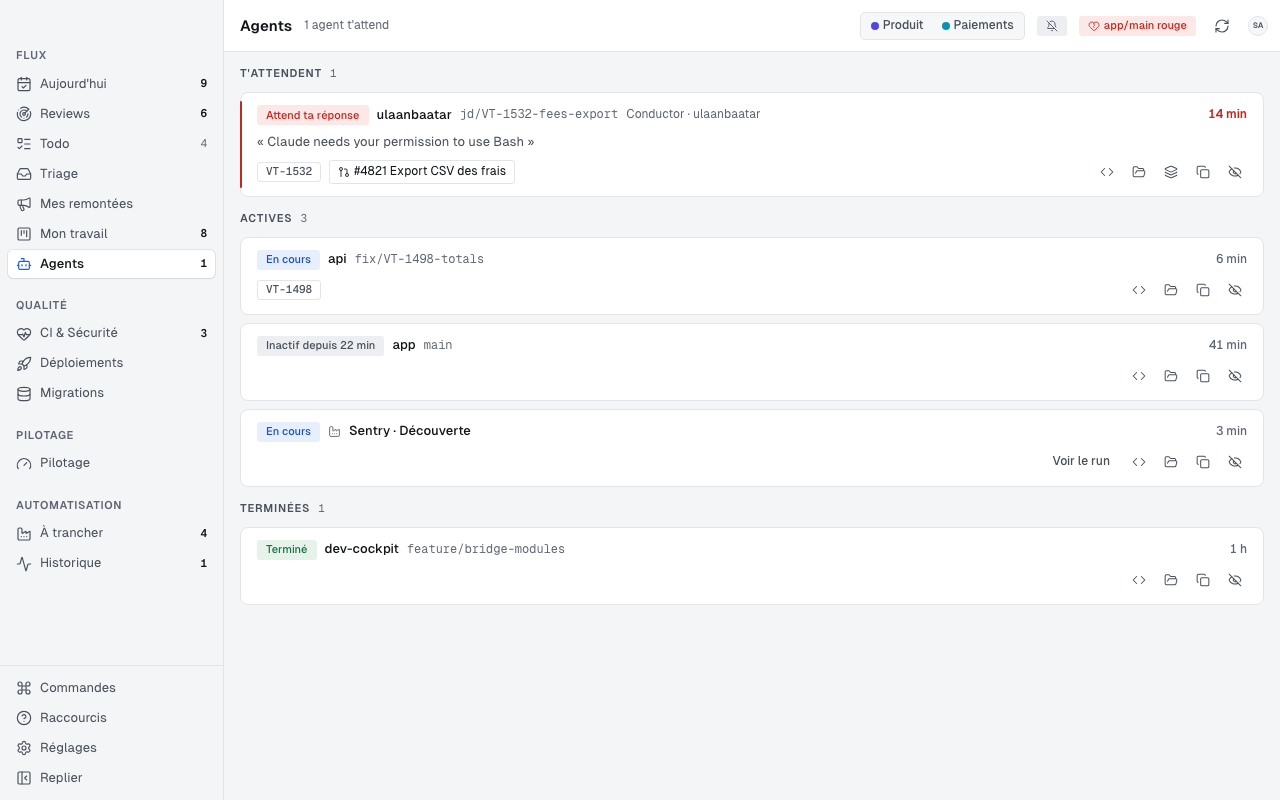
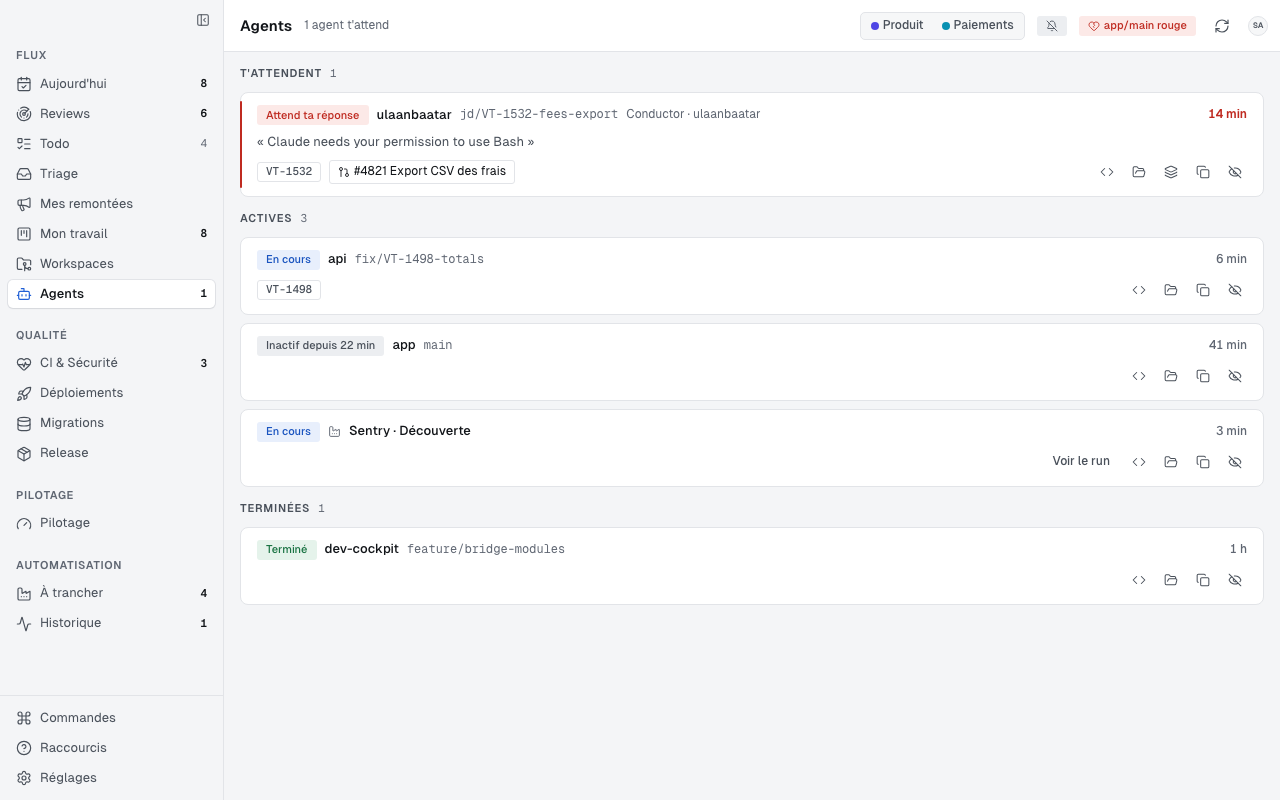
Show the whole cockpit: hidden views, Workspaces, Release and the sources (#2)
The README stopped at the sidebar views as they stood a fortnight ago.
Workspaces and Release had arrived since; Ménage, Notes and Absence had
never been shown; and nothing said what feeds the app.

Every shot is now taken by a spec that lives with the code, from the
demo fixtures under showcase=1. Four claims are corrected against the
module registry: Release writes nothing, the accounts tab holds GitHub
and YouTrack alone, the risk badges belong to Reviews, and the module
tour is a button rather than an automatic sequel.

The install line named the repository by its former owner. It worked by
redirect, but the source README has said parallel-services for a while.

Changed region(s): [[0.0, 0.3125, 0.0938, 0.7812], [0.0, 0.8438, 0.0938, 0.9062], [0.0312, 0.9688, 0.0625, 1.0]]

diff --git a/README.md b/README.md
@@ -11,32 +11,38 @@ au dépôt de code.
 
 Chacun s'allume ou s'éteint dans **Réglages › Modules** : ce qui est éteint quitte la barre, les
 raccourcis et les notifications. La barre de gauche les range en quatre groupes — Flux, Qualité,
-Pilotage, Automatisation. Les captures viennent du jeu de démonstration, pas d'un vrai compte.
+Pilotage, Automatisation — et trois vues vivent hors de la barre, ouvertes par la palette. Les
+captures viennent du jeu de démonstration, pas d'un vrai compte.
 
 ## Flux
 
 ### Aujourd'hui
-Ce qui t'attend dans les autres vues actives, en un coup d'œil.
+Ce qui t'attend dans les autres vues actives, en un coup d'œil : agents, sorties à trancher,
+ménage, mentions, reviews, PR et cartes en cours. Chaque bloc se masque ou se déplace, et un bloc
+masqué ne compte nulle part.
 
 ![Aujourd'hui](docs/screenshots/aujourdhui.png)
 
 ### Reviews
 Tout ce qui attend ta review, avec le compteur de la barre de menus. j et k circulent, Entrée ouvre.
+Les badges de risque y signalent une grosse PR, une migration, des fichiers sensibles. Ce qui bouge
+sans qu'on te l'ait demandé devient un signal, rangé derrière son bouton.
 
 ![Reviews](docs/screenshots/reviews.png)
 
 ### Todo
-Les cartes à prendre dans le sprint courant de tes boards.
+Les cartes à prendre dans le sprint courant de tes boards, avec les workflows qui démarrent le
+travail : Conductor, terminal, ou un départ en hotfix depuis une version de prod.
 
 ![Todo](docs/screenshots/todo.png)
 
 ### Triage
-Les bugs remontés dans Notion, triés et transformés en cartes YouTrack.
+Les bugs remontés dans Notion et les erreurs Sentry, triés et transformés en cartes YouTrack.
 
 ![Triage](docs/screenshots/triage.png)
 
 ### Mes remontées
-Les bugs que tu as remontés dans Notion, et ce qu'ils deviennent.
+Les bugs que tu as remontés dans Notion, et ce qu'ils deviennent : ce qui attend ta réponse d'abord.
 
 ![Mes remontées](docs/screenshots/mes-remontees.png)
 
@@ -44,6 +50,12 @@ Les bugs que tu as remontés dans Notion, et ce qu'ils deviennent.
 Tes cartes en cours avec leur parcours, puis tes PR sans carte : branche, CI, reviews et conflits.
 
 ![Mon travail](docs/screenshots/mon-travail.png)
+
+### Workspaces
+Un worktree git par sujet, où Claude Code travaille : créer, suivre, relire le diff, commiter et
+pousser. ⇧Entrée ouvre une session, ⌘⇧N crée un workspace.
+
+![Workspaces](docs/screenshots/workspaces.png)
 
 ### Agents
 Tes sessions Claude Code ; celles qui attendent une réponse passent devant.
@@ -69,6 +81,13 @@ Les PR ouvertes qui touchent une migration : qui doit la relire, depuis combien 
 et le SQL qu'elle joue.
 
 ![Migrations](docs/screenshots/migrations.png)
+
+### Release
+Préparer une version : le tag suivant, le commit cible, les traductions en attente, les migrations
+à relire et le changelog que les cartes ont écrit. **Aucune écriture** : la vue prépare, elle ne
+crée pas la release et ne publie rien.
+
+![Release](docs/screenshots/release.png)
 
 ## Pilotage
 
@@ -103,6 +122,45 @@ Les enchaînements, actions, runs Factory et appels MCP passés, étape par éta
 
 ![Historique](docs/screenshots/historique.png)
 
+## Hors de la barre
+
+Trois vues que la palette (⌘K) ouvre, et qui se signalent d'elles-mêmes quand elles ont quelque
+chose à dire.
+
+### Ménage
+Les branches fusionnées, worktrees, images et volumes à ranger, avec la place qu'ils reprennent.
+Rien n'est supprimé sans aperçu ni confirmation. Il se rappelle à toi dans Aujourd'hui et par sa
+notification hebdomadaire.
+
+![Ménage](docs/screenshots/menage.png)
+
+### Notes
+La capture rapide : une note en deux secondes avec ⌘⇧Espace depuis n'importe où, triée ici et
+convertie en carte quand elle le mérite.
+
+![Notes](docs/screenshots/notes.png)
+
+### Absence
+Ce qu'il faut régler avant de partir : reviews à rendre, cartes en cours, passation à écrire. Les
+notifications se taisent et les reviews ne te sont plus adressées jusqu'au retour.
+
+![Absence](docs/screenshots/absence.png)
+
+## Ce qui alimente le cockpit
+
+### Les comptes
+GitHub et YouTrack se connectent ici ; Notion et Sentry ont leur propre onglet. Les jetons vivent
+dans le trousseau du système, jamais dans un fichier ; tout le réseau part du back Rust, et rien ne
+sort sans passer par le masquage.
+
+![Comptes](docs/screenshots/comptes.png)
+
+### Les notifications
+Ce qui te notifie, et quand : la section « Quand me déranger » met l'app en sourdine pendant tes
+réunions et garde les reviews pour les créneaux que tu as choisis.
+
+![Notifications](docs/screenshots/notifications.png)
+
 ## Composer son cockpit
 
 Les modules s'activent un par un, avec leurs dépendances et des profils tout faits.
@@ -111,15 +169,19 @@ Les modules s'activent un par un, avec leurs dépendances et des profils tout fa
 
 ## Visite guidée
 
-Au premier lancement, un pas à pas éclaire les zones de l'app une à une. Il se relance depuis la
-palette (⌘K) ou l'aide (?).
+Au premier lancement, un pas à pas éclaire les zones de l'app une à une : la barre des vues,
+l'en-tête, le filtre d'équipe, la palette, les raccourcis et Réglages › Modules. Sa dernière étape
+propose un **tour des modules**, qui passe sur chaque vue — les trois hors de la barre comprises —
+puis sur chaque source. Les étapes d'un module éteint sont sautées : la visite ne parle jamais
+d'une fonction que tu n'as pas. La palette (⌘K, « Visite guidée ») et Réglages › À propos
+relancent le pas à pas.
 
 ![Visite guidée](docs/screenshots/visite-guidee.png)
 
 ## Installer
 
 ```bash
-gh api repos/jeremie-vasco/dev-cockpit-dist/contents/install.sh --jq .content | base64 --decode | bash
+gh api repos/parallel-services/dev-cockpit-dist/contents/install.sh --jq .content | base64 --decode | bash
 ```
 
 `--beta` pour le canal beta, `--version vX.Y.Z` pour une version précise, `--deb` sous Linux pour
